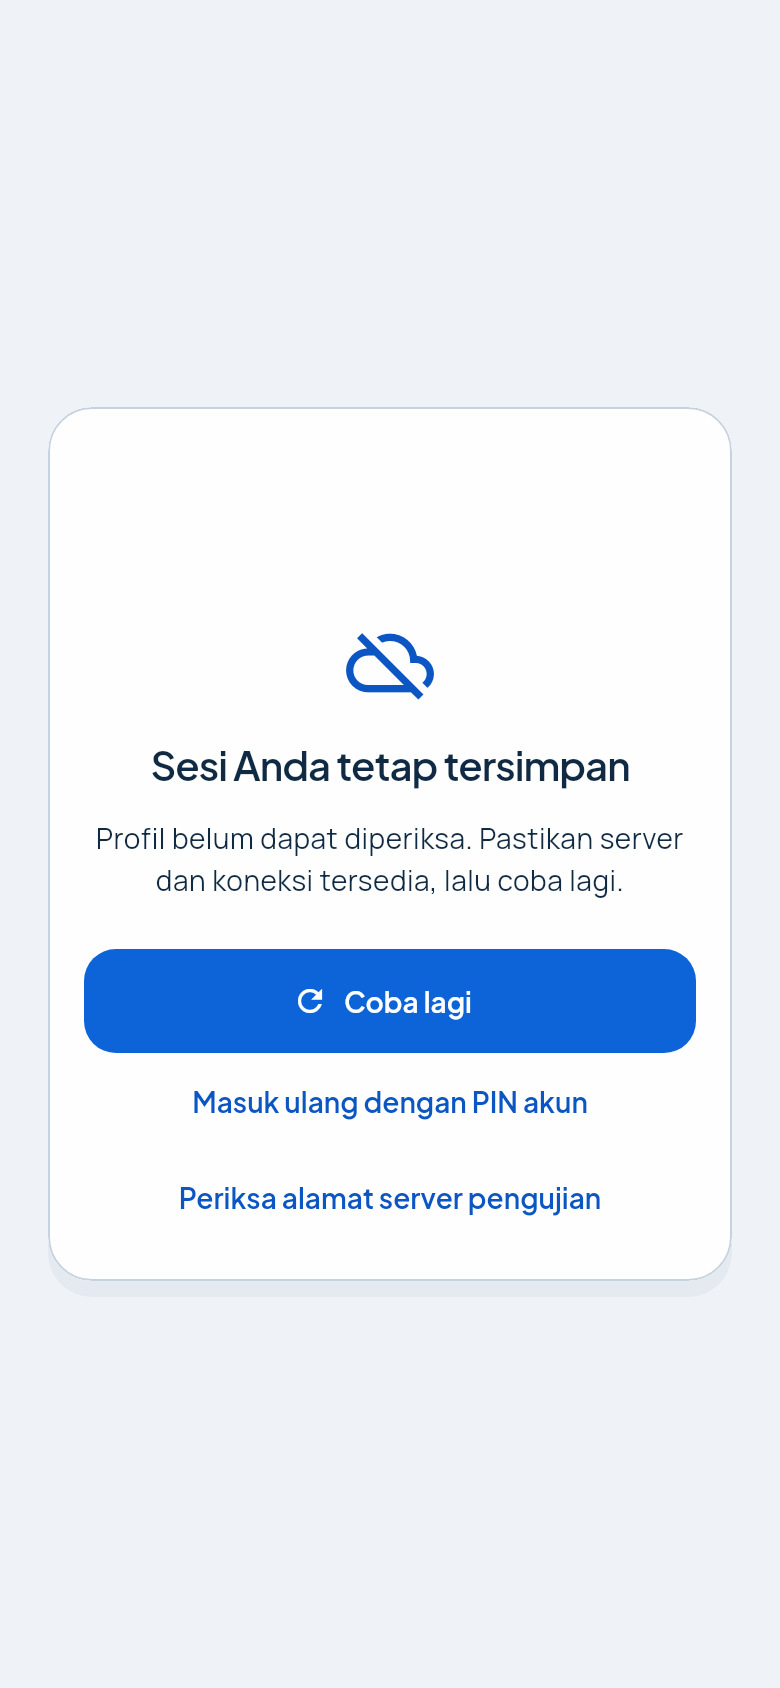
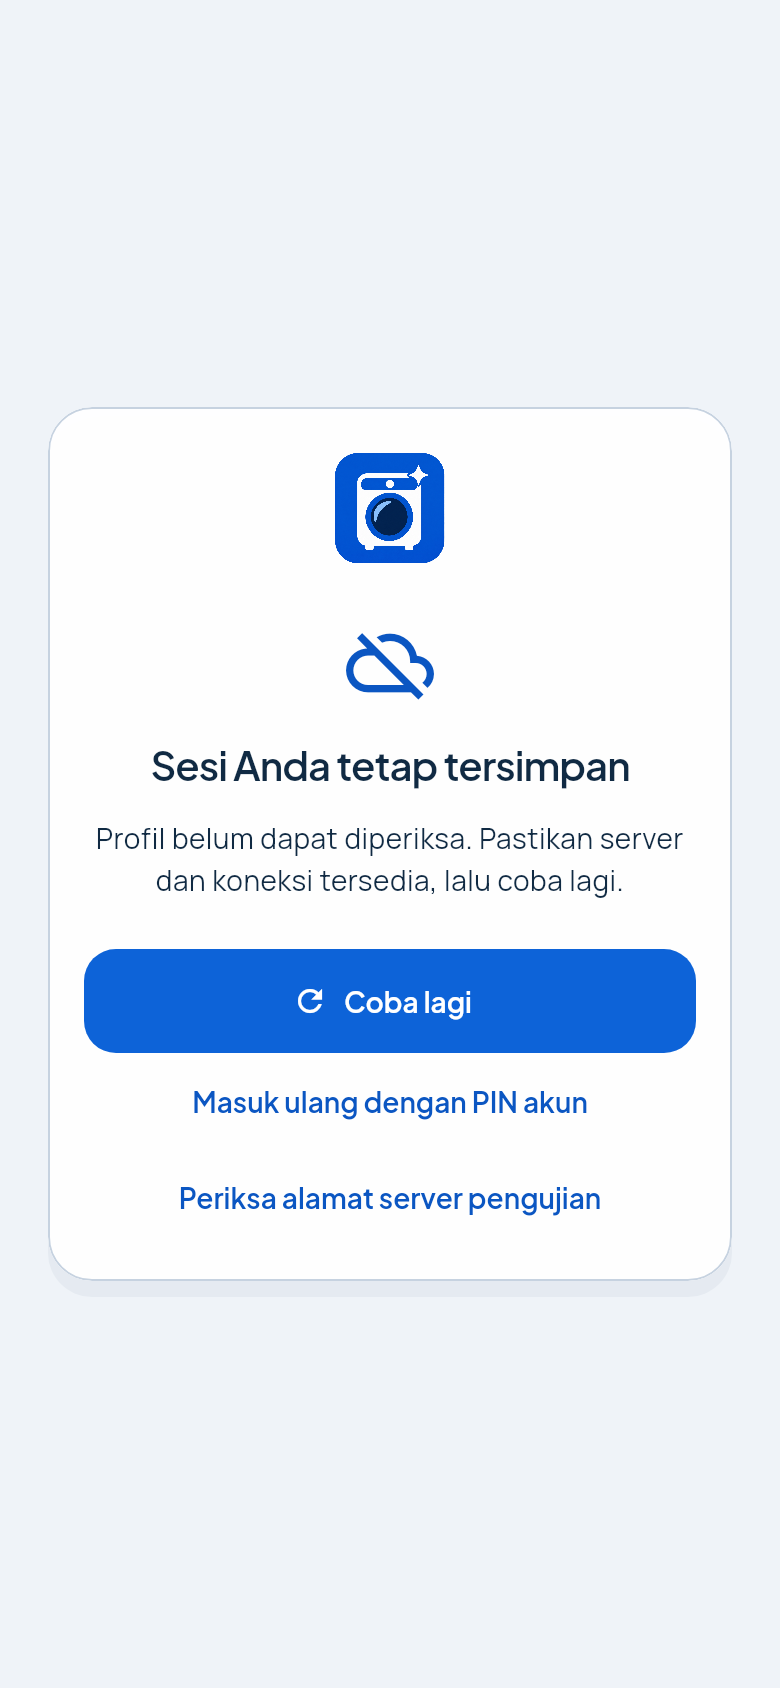
test: load local artwork before visual captures

Changed region(s): [[0.4308, 0.2464, 0.5846, 0.3389]]

diff --git a/tool/capture_security_test.dart b/tool/capture_security_test.dart
@@ -88,6 +88,12 @@ void main() {
           ),
         );
         await tester.pumpAndSettle();
+        await tester.runAsync(() async {
+          for (final element in find.byType(Image).evaluate()) {
+            await precacheImage((element.widget as Image).image, element);
+          }
+        });
+        await tester.pumpAndSettle();
         expect(tester.takeException(), isNull);
         final boundary =
             key.currentContext!.findRenderObject()! as RenderRepaintBoundary;
